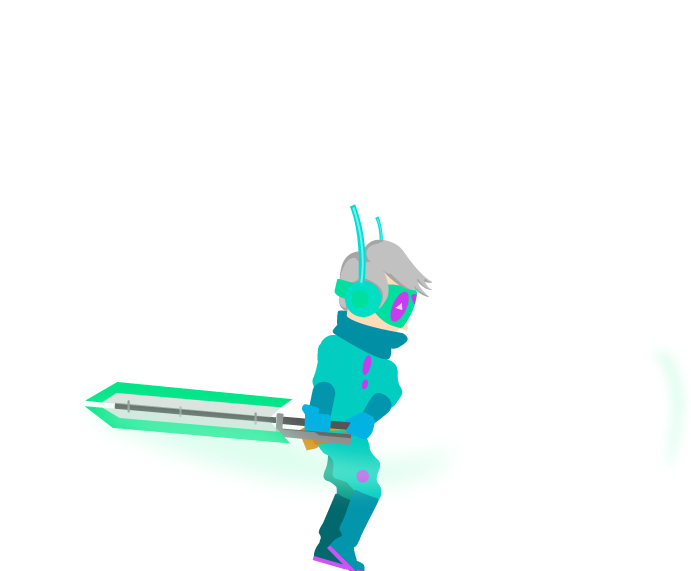
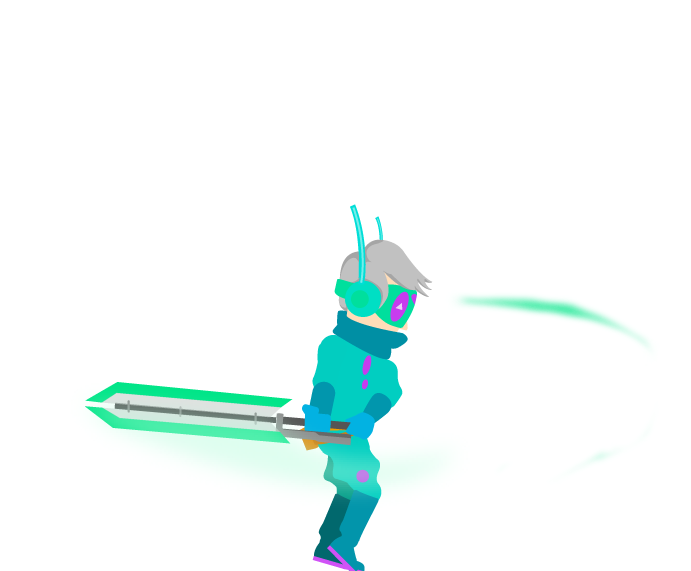
checkpoint

Changed region(s): [[0.6686, 0.5061, 0.9421, 0.5954]]

diff --git a/TheBuggger/TBPlayerNode.swift b/TheBuggger/TBPlayerNode.swift
@@ -82,9 +82,6 @@ class TBPlayerNode: SKSpriteNode {
     static func createPlayerDefense(){
         let defenceArray = TBUtils().getSprites("PlayerDefence", nomeImagens: "defend-")
          TBPlayerNode.defenceAction =  SKAction.animateWithTextures(defenceArray, timePerFrame: 0.065);
-        
-        
-
     }
     
     required init?(coder aDecoder: NSCoder) {
@@ -141,7 +138,7 @@ class TBPlayerNode: SKSpriteNode {
         })])]))
         
         
-        self.attackActionChangeState1 = SKAction.group([TBPlayerNode.attackActionAnimation1!,SKAction.sequence([SKAction.waitForDuration(0.04),SKAction.runBlock({
+        self.attackActionChangeState1 = SKAction.group([TBPlayerNode.attackActionAnimation1!,SKAction.sequence([SKAction.runBlock({
             self.attackState = AttackState.Attacking})]) ,
             SKAction.sequence([SKAction.waitForDuration(0.28), SKAction.runBlock({
                 self.attackState = AttackState.Idle}

diff --git a/TheBuggger/GameViewController.swift b/TheBuggger/GameViewController.swift
@@ -32,7 +32,7 @@ class GameViewController: UIViewController, SceneChangesDelegate {
             let skView = self.view as! SKView
             //skView.showsFPS = true
             //skView.showsNodeCount = true
-            //skView.showsPhysics = true;
+//            skView.showsPhysics = true;
             
             /* Sprite Kit applies additional optimizations to improve rendering performance */
             skView.ignoresSiblingOrder = true
